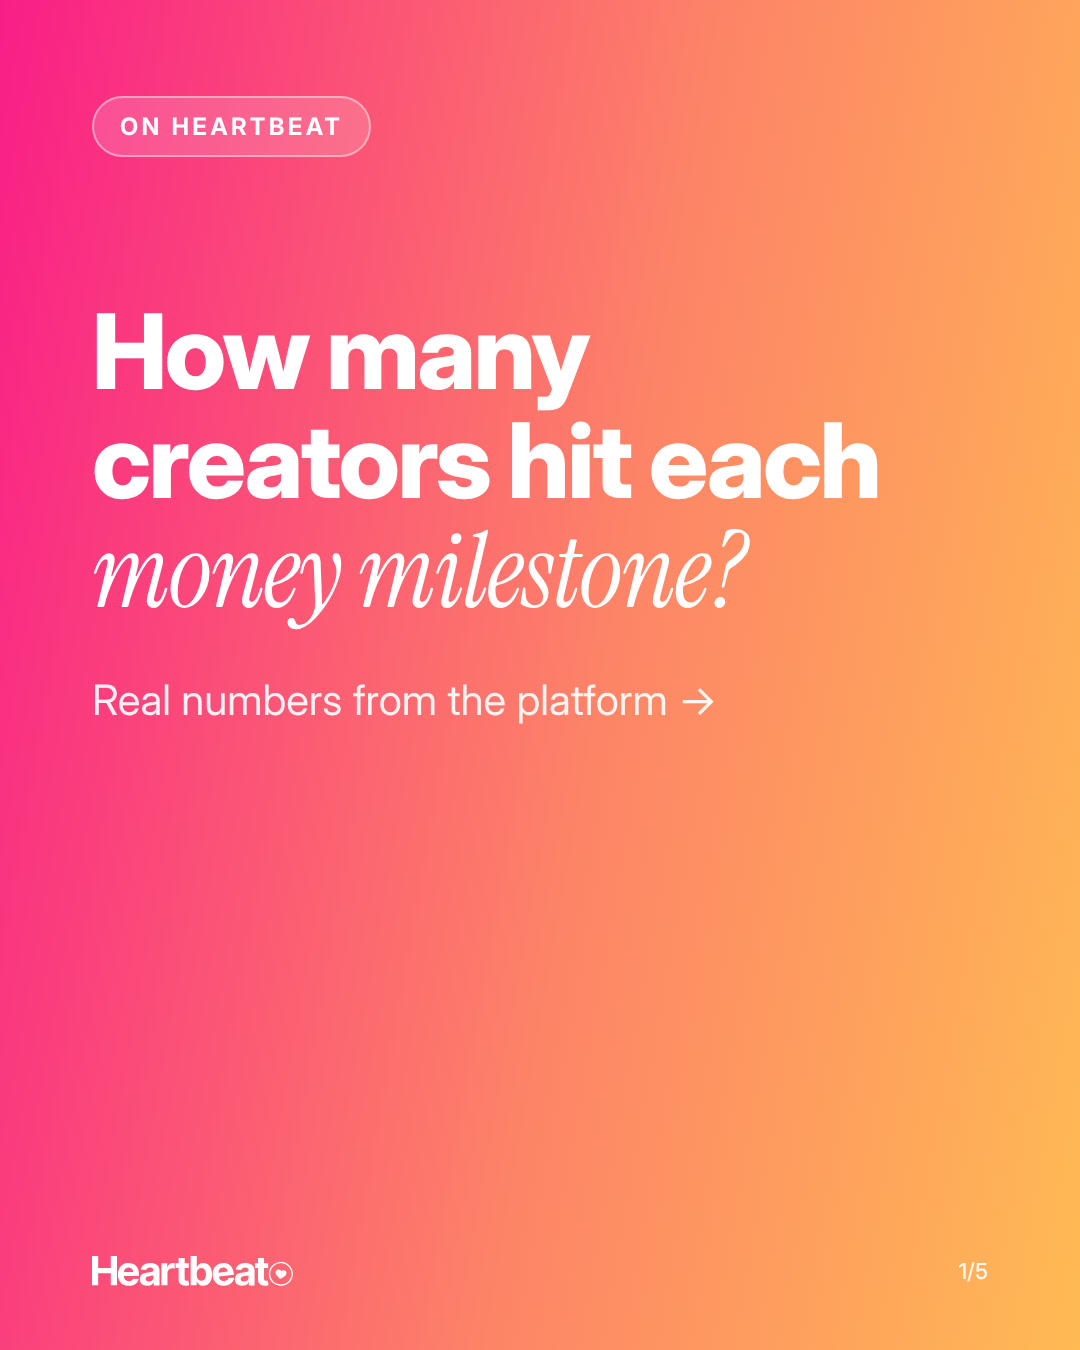
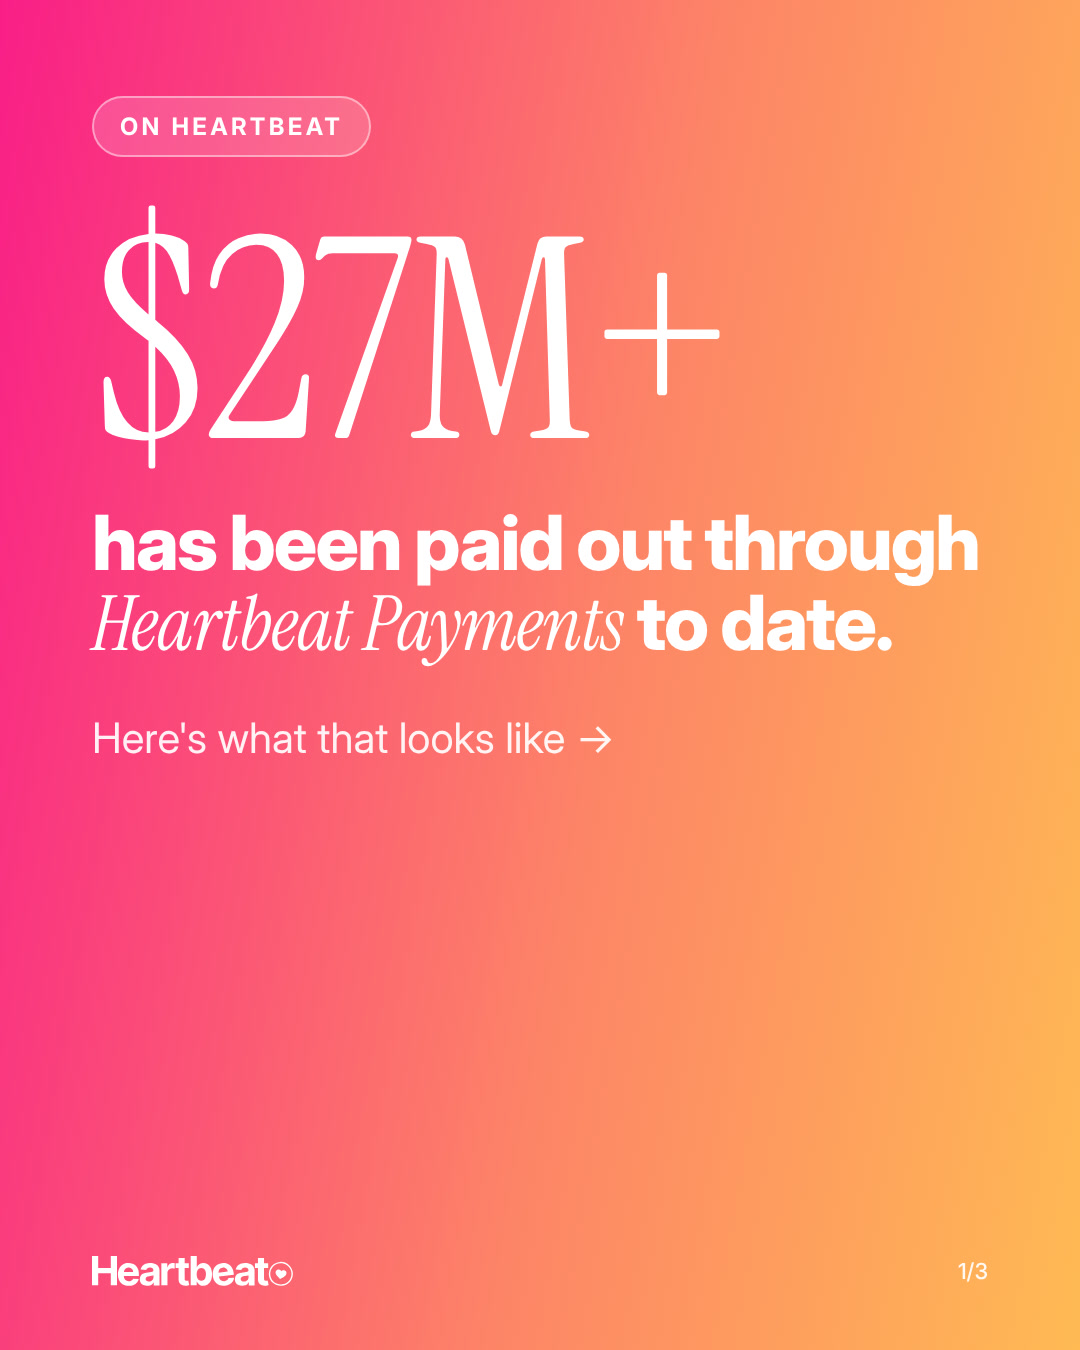
Milestone ladder: apply Clay's edits (27M+ headline, 3 slides)
Claude-Session: https://claude.ai/code/session_01P8QvsgDdtGtrjCdoBChfQC

Changed region(s): [[0.0917, 0.1556, 0.9167, 0.56], [0.8861, 0.9333, 0.9167, 0.9644]]

diff --git a/posts/2026-10-12-creator-milestone-ladder/src/slide-01.html b/posts/2026-10-12-creator-milestone-ladder/src/slide-01.html
@@ -1,7 +1,8 @@
 <!doctype html><html><head><meta charset="utf-8">{{BRAND}}</head>
 <body class="dark"><div class="frame">
   <div class="pill">On Heartbeat</div>
-  <div class="head" style="font-size:104px;margin-top:140px">How many creators hit each <em>money milestone?</em></div>
-  <div class="sub" style="font-size:42px;margin-top:44px">Real numbers from the platform →</div>
+  <div class="big">$27M+</div>
+  <div class="head">has been paid out through <em>Heartbeat Payments</em> to date.</div>
+  <div class="sub" style="font-size:42px;margin-top:44px">Here's what that looks like →</div>
 </div>
-<div class="foot"><img src="{{ROOT}}/brand/heartbeat-wordmark-white.svg"><span>1/5</span></div></body></html>
+<div class="foot"><img src="{{ROOT}}/brand/heartbeat-wordmark-white.svg"><span>1/3</span></div></body></html>

diff --git a/posts/2026-10-12-creator-milestone-ladder/src/slide-03.html b/posts/2026-10-12-creator-milestone-ladder/src/slide-03.html
@@ -1,7 +1,7 @@
 <!doctype html><html><head><meta charset="utf-8">{{BRAND}}</head>
-<body><div class="frame">
-  <div class="pill">Milestone 2</div>
-  <div class="big">400+</div>
-  <div class="head">creators have passed <em>$10K.</em></div>
+<body class="dark"><div class="frame">
+  <div class="pill">Remember</div>
+  <div class="head" style="font-size:104px;margin-top:140px">Every community starts at zero. <em>You build it day by day.</em></div>
+  <div class="sub" style="font-size:42px;margin-top:44px">One interaction at a time. Save this.</div>
 </div>
-<div class="foot"><img src="{{ROOT}}/brand/heartbeat-wordmark-black.svg"><span>3/5</span></div></body></html>
+<div class="foot"><img src="{{ROOT}}/brand/heartbeat-wordmark-white.svg"><span>3/3</span></div></body></html>

diff --git a/posts/2026-10-12-creator-milestone-ladder/src/slide-02.html b/posts/2026-10-12-creator-milestone-ladder/src/slide-02.html
@@ -1,7 +1,6 @@
 <!doctype html><html><head><meta charset="utf-8">{{BRAND}}</head>
-<body><div class="frame">
-  <div class="pill">Milestone 1</div>
-  <div class="big">1,100+</div>
-  <div class="head">creators have passed their <em>first $1K.</em></div>
+<body class="dark"><div class="frame">
+  <div class="pill">Creators</div>
+  <div class="head" style="font-size:112px;margin-top:140px">Dozens of creators have earned <em>over $100K each.</em></div>
 </div>
-<div class="foot"><img src="{{ROOT}}/brand/heartbeat-wordmark-black.svg"><span>2/5</span></div></body></html>
+<div class="foot"><img src="{{ROOT}}/brand/heartbeat-wordmark-white.svg"><span>2/3</span></div></body></html>
